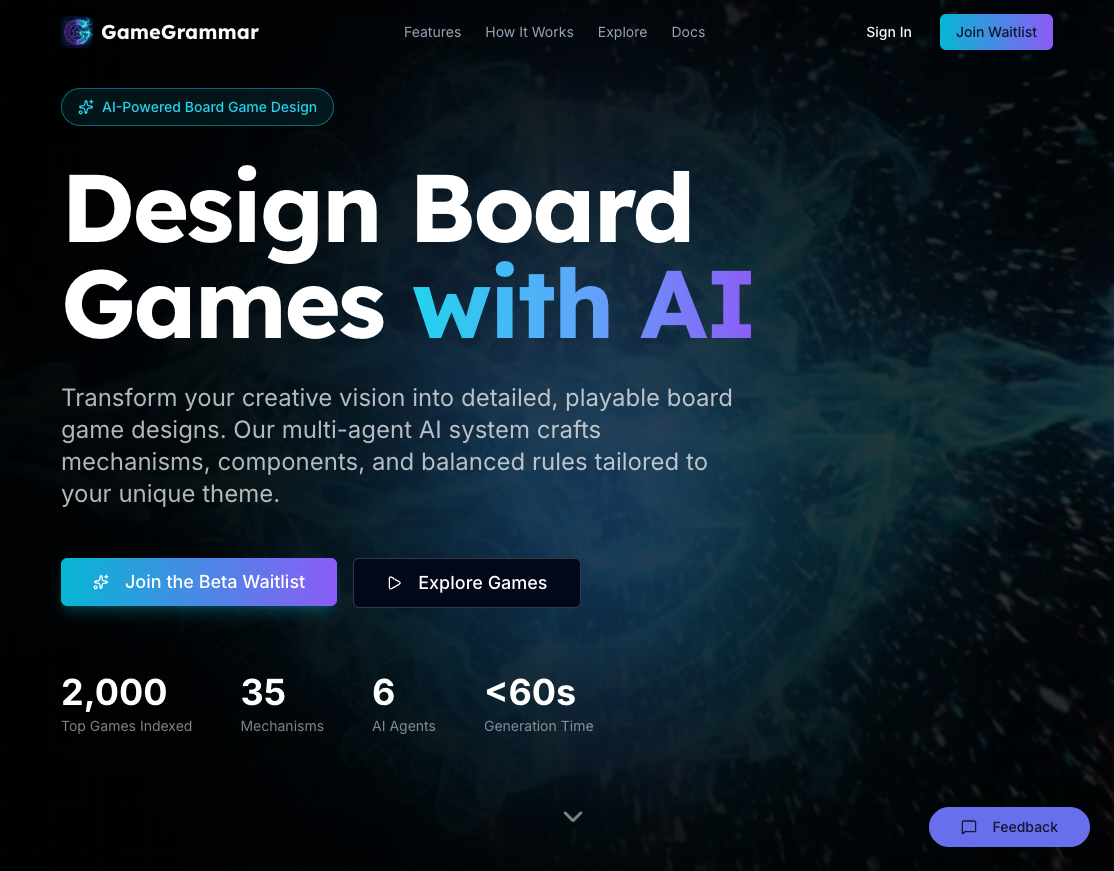
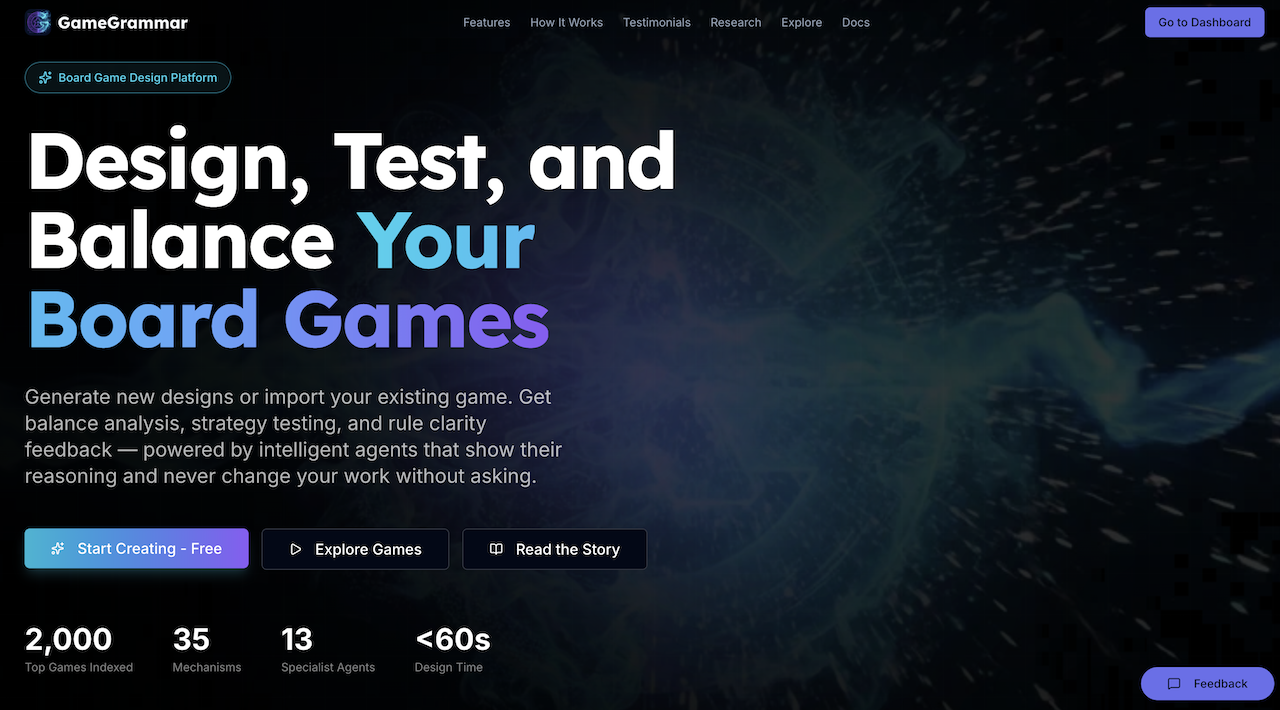
Rebrand blog posts: de-emphasize AI, position as co-design platform
- Part 5 & 6: Replace AI-first language with platform/tool/system framing
- Update tags from AI/Generative AI to Design Tools/Co-Design
- "AI Edit/Suggestions" → "Smart Edit/Smart Suggestions" in tables
- "complete game" → "structured first draft" throughout
- Add import path mention (Epic 44) to both CTAs
- Replace hero image with updated landing page screenshot
- Update Dynamind Research description

diff --git a/_posts/2026-02-06-gamegrammar-the-theory-of-generative-board-game-design.md b/_posts/2026-02-06-gamegrammar-the-theory-of-generative-board-game-design.md
@@ -7,13 +7,13 @@ author: Benny Cheung
 artwork:
   author: Gemini 3 Pro
 tags:
-- AI
 - Game Design
 - Tabletop Games
-- Generative AI
+- Design Tools
 - Ontology
 - Process Philosophy
-- Human-AI Collaboration
+- Co-Design
+- Design Theory
 category: post
 comments: true
 image: images/gamegrammar-the-theory-of-generative-board-game-design/post_cover.jpg
@@ -27,16 +27,16 @@ series_order: 6
 ---
 
 <!--excerpt.start-->
-A poet needs grammar. A game designer needs structure. This article lays out the design theory behind GameGrammar, a theory born from one practical question: Can AI help create playable board games? The answer turned out to require more than clever prompting. It required a shared vocabulary for what games are, a way to generate what games could be, and a collaborative process for refining what games should become. What follows is that theory, and a direct answer to two questions every designer asks: Can AI really understand "fun"? And can AI be genuinely creative?
+A poet needs grammar. A game designer needs structure. This article lays out the design theory behind GameGrammar, a theory born from one practical question: Can structured tools help create playable board games? The answer turned out to require more than clever prompting. It required a shared vocabulary for what games are, a way to generate what games could be, and a collaborative process for refining what games should become. What follows is that theory, and a direct answer to two questions every designer asks: Can AI really understand "fun"? And can AI be genuinely creative?
 <!--excerpt.end-->
 
 ![GameGrammar: Structured Generative Play]({{ site.baseurl }}images/gamegrammar-the-theory-of-generative-board-game-design/GameGrammar_Theme.jpg)
 
 _Figure. Structure meets imagination. The left half shows the blueprint, the right half shows the finished piece. GameGrammar bridges both worlds._
 
-GameGrammar did not begin as a theory. It began as a practical experiment at [Dynamind Research](https://www.dynamindresearch.com) [7]: type a theme into a box, let six AI agents build a complete board game, and see what comes out. What came out, after months of iteration, was not just a tool but a set of ideas about how design works, why AI can be a trustworthy creative partner, and what that means for human designers.
+GameGrammar did not begin as a theory. It began as a practical experiment at [Dynamind Research](https://www.dynamindresearch.com) [7]: type a theme into a box, let six specialized agents generate a structured first draft, and see what comes out. What came out, after months of iteration, was not just a tool but a set of ideas about how design works, why AI can be a trustworthy creative partner, and what that means for human designers.
 
-In a [previous article]({{ site.baseurl }}introducing-gamegrammar-ai-powered-board-game-design), we showed what GameGrammar produces: twelve words in, a complete game out in 73 seconds. This article goes deeper. It explains the *why* behind the *what*, the design thinking that makes human-AI game design not just possible, but genuinely new.
+In a [previous article]({{ site.baseurl }}introducing-gamegrammar-ai-powered-board-game-design), we showed what GameGrammar produces: twelve words in, a structured first draft out in 73 seconds. This article goes deeper. It explains the *why* behind the *what*, the design thinking that makes human-AI game design not just possible, but genuinely new.
 
 ---
 
@@ -59,9 +59,9 @@ _Figure. GameGrammar sits between Concept and Testing, providing rapid variant g
 **GameGrammar lives at Stages 1 and 2.** It is a design workbench for the earliest and most uncertain phases of game creation:
 
 - **Stage 1**: Generate structured first drafts from a theme and constraints. Beat blank-page paralysis. Explore mechanism combinations drawn from real published games.
-- **Stage 2**: Iterate rapidly with AI-assisted consistency checking, balance analysis, section-by-section rewriting, and plain-language editing. Catch issues that would normally take weeks of playtesting to surface.
+- **Stage 2**: Iterate rapidly with automated consistency checking, balance analysis, section-by-section rewriting, and plain-language editing. Catch issues that would normally take weeks of playtesting to surface.
 
-GameGrammar does not touch Stages 3 through 9. It will not lock your design, pitch to publishers, produce art, or manage manufacturing. It sits precisely where you need the most help and where AI can do the most good: turning a theme into a testable design, and helping you refine that design through structured iteration.
+GameGrammar does not touch Stages 3 through 9. It will not lock your design, pitch to publishers, produce art, or manage manufacturing. It sits precisely where you need the most help and where computational tools can do the most good: turning a theme into a testable design, and helping you refine that design through structured iteration.
 
 The positioning matters. GameGrammar is a **design accelerator** that helps you move faster through the early pipeline. It is not a replacement for your craft. You remain the designer. The AI is your instrument.
 
@@ -122,7 +122,7 @@ GameGrammar combines both. The structured vocabulary provides the constraints; t
 
 ### The Six-Agent Pipeline
 
-Generation is not a single AI prompt. It is a team of six specialized agents, each focused on one area of game design [7]:
+Generation is not a single prompt. It is a pipeline of six specialized agents, each focused on one area of game design [7]:
 
 ![The Generative Pipeline: Multi-Agent Synthesis]({{ site.baseurl }}images/gamegrammar-the-theory-of-generative-board-game-design/Multi_Agent_Pipeline.jpg)
 
@@ -209,8 +209,8 @@ _Figure. From precise fixes to open-ended creative guidance. You choose which mo
 |------|-------------------|-----------|
 | **Rewrite Section** | Rewrites one outdated section using your current full design as context | Review and accept or reject |
 | **Fix Contradiction** | Proposes a targeted fix for a specific inconsistency | Preview the change, confirm or skip |
-| **AI Edit** | Translates your plain-language instruction into concrete design changes | Review what it changed, pick which parts to keep |
-| **AI Suggestions** | Generates 3-7 improvement ideas with priorities and reasoning | Apply now, save for later, or dismiss |
+| **Smart Edit** | Translates your plain-language instruction into concrete design changes | Review what it changed, pick which parts to keep |
+| **Smart Suggestions** | Generates 3-7 improvement ideas with priorities and reasoning | Apply now, save for later, or dismiss |
 | **Re-Evaluate** | Scores 6 design dimensions, maps the emotional arc, measures originality | Study the profile, find weak spots, decide what to improve |
 
 Re-evaluation is especially powerful because it closes the feedback loop. After making changes through any of the other modes, you can re-score your design and see what moved. Dimensions that improved flash green; those that declined flash amber. This turns the cycle from "edit and hope" into "edit, measure, and iterate with direction."
@@ -313,7 +313,7 @@ A related question: Can AI be genuinely creative, or does it just shuffle existi
 
 ![Is AI Creative?]({{ site.baseurl }}images/gamegrammar-the-theory-of-generative-board-game-design/Is_AI_Creative.jpg)
 
-_Figure. Existing elements become novel structures through synthesis. The human provides intention (the why). The AI provides recombination (the how)._
+_Figure. Existing elements become novel structures through synthesis. The human provides intention (the why). The system provides recombination (the how)._
 
 The philosopher Whitehead defined creativity not as making something from nothing, but as *the novel combination of existing elements* [1]. Every creative act borrows from what came before but achieves something new in how it brings those pieces together. A poet inherits language, meter, and tradition; the poem is new. An architect inherits materials, engineering, and precedent; the building is new. Creativity is not the absence of inheritance. It is the *fresh synthesis* of what you have inherited.
 
@@ -369,11 +369,11 @@ The three-layer model keeps your game separate from the process of making it. Th
 
 For the design community, this offers a new way of working: not AI replacing designers, not designers ignoring AI, but a structured partnership where each contributes what they do best. The grammar constrains. The AI creates within those constraints. You decide what the game should be.
 
-The AI handles the mechanics. You bring the meaning. That division of labor is the whole theory in one sentence.
+The platform handles the mechanics. You bring the meaning. That division of labor is the whole theory in one sentence.
 
 The grammar does not write the poem. But without grammar, there is no poem to write.
 
-GameGrammar is available in public beta at [gamegrammar.dynamindresearch.com](https://gamegrammar.dynamindresearch.com). Try it. Generate a game from your favorite theme. Study the radar chart. Make some changes and hit Re-Evaluate. Watch the scores move. Then decide for yourself whether this partnership is worth having.
+GameGrammar is available in public beta at [gamegrammar.dynamindresearch.com](https://gamegrammar.dynamindresearch.com). Already have a game in progress? You do not need to start from generation. Describe your existing design to Nova, and the platform will structure it for balance analysis and strategy testing — starting from the work you have already done. Try it. Generate a game from your favorite theme. Study the radar chart. Make some changes and hit Re-Evaluate. Watch the scores move. Then decide for yourself whether this partnership is worth having.
 
 ---
 
@@ -405,7 +405,7 @@ GameGrammar is available in public beta at [gamegrammar.dynamindresearch.com](ht
 [6] [BoardGameGeek](https://boardgamegeek.com/). The largest board game database and community.
   - Source for the 2,000+ game reference library used in generation and originality scoring
 
-[7] [Dynamind Research](https://www.dynamindresearch.com). AI consulting and product development studio.
+[7] [Dynamind Research](https://www.dynamindresearch.com). Research and product development studio.
   - Creator of GameGrammar
 
 [8] Benny Cheung. [*Generative Ontology: When Structured Knowledge Learns to Create*](https://arxiv.org/abs/2602.05636). arXiv:2602.05636, Feb 2026.

diff --git a/_posts/2026-02-03-introducing-gamegrammar-ai-powered-board-game-design.md b/_posts/2026-02-03-introducing-gamegrammar-ai-powered-board-game-design.md
@@ -7,13 +7,13 @@ author: Benny Cheung
 artwork:
   author: Gemini 3 Pro
 tags:
-- AI
 - Game Design
 - Tabletop Games
-- Generative AI
+- Design Tools
 - Game Architecture
 - Board Games
-- Multi-Agent Systems
+- Co-Design
+- Game Analysis
 category: post
 comments: true
 image: images/introducing-gamegrammar-ai-powered-board-game-design/post_cover.png
@@ -28,12 +28,12 @@ series_order: 5
 ---
 
 <!--excerpt.start-->
-I typed twelve words into a text box and got back a complete board game. Mechanics, components, scoring tables, a hex map, a four-phase turn structure, and a critic that told me the game was broken. The whole thing took 73 seconds. This is what happens when you give a structured game taxonomy to six AI agents and let them argue about your design.
+I typed twelve words into a text box and got back a structured first draft of a board game. Mechanics, components, scoring tables, a hex map, a four-phase turn structure, and a critic that told me the game was broken. The whole thing took 73 seconds. This is what happens when you give a structured game taxonomy to six specialized design agents and let them critique your design.
 <!--excerpt.end-->
 
 ![GameGrammar Landing Page]({{ site.baseurl }}images/introducing-gamegrammar-ai-powered-board-game-design/GameGrammar_Landing_Hero.png)
 
-_Figure. GameGrammar transforms a theme and constraints into a complete board game design through six specialized AI agents._
+_Figure. GameGrammar transforms a theme and constraints into a structured board game design through six specialized design agents._
 
 The twelve words were: *"Rival astronomers racing to name celestial objects before their competitors claim the glory."*
 
@@ -71,7 +71,7 @@ The blank page is the first enemy. Before a designer can even begin the playtest
 
 _Figure. The nine-stage board game production pipeline. GameGrammar accelerates Stages 1 and 2, where designers spend the most time and where promising ideas most often die._
 
-I built GameGrammar at [Dynamind Research](https://www.dynamindresearch.com) [5], an AI consulting and product studio that bridges theoretical AI research with practical enterprise implementation, to attack this specific problem. Not to replace game designers, not to automate the creative process, but to eliminate blank-page paralysis and give designers structured starting points worth iterating on. It operates at Stages 1 and 2, where the designer's challenge is generating enough viable concepts to find the gem worth polishing.
+I built GameGrammar at [Dynamind Research](https://www.dynamindresearch.com) [5], a research and product studio that bridges computational design research with practical implementation, to attack this specific problem. Not to replace game designers, not to automate the creative process, but to eliminate blank-page paralysis and give designers structured starting points worth iterating on. It operates at Stages 1 and 2, where the designer's challenge is generating enough viable concepts to find the gem worth polishing.
 
 ---
 
@@ -85,12 +85,12 @@ _Figure. The input: a theme, constraints, and optionally pre-selected mechanisms
 
 The theme can be anything: *"Medieval merchants trading spices along the Silk Road,"* *"Deep sea explorers discovering lost civilizations,"* or in our case, *"Rival astronomers racing to name celestial objects"* with constraints *"2-4 players, competitive, medium complexity, 45-60 minutes."*
 
-Then you choose a generation mode. I picked Multi-Agent because it reveals what makes GameGrammar fundamentally different from a single-prompt approach: six specialized AI agents working in sequence, each reading the complete output of every agent before it.
+Then you choose a generation mode. I picked Multi-Agent because it reveals what makes GameGrammar fundamentally different from a single-prompt approach: six specialized agents working in sequence, each reading the complete output of every agent before it.
 
 | Mode | Speed | What Happens |
 |------|-------|--------------|
 | **Quick** | ~15 seconds | A single powerful model generates the complete design in one pass |
-| **Multi-Agent** | 45-90 seconds | Six specialized AI agents collaborate sequentially, each building on the last |
+| **Multi-Agent** | 45-90 seconds | Six specialized agents collaborate sequentially, each building on the last |
 | **RAG-Enhanced** | ~30 seconds | Generation grounded in data from 2,000+ published BoardGameGeek games [4] |
 
 ![GameGrammar Generate Page]({{ site.baseurl }}images/introducing-gamegrammar-ai-powered-board-game-design/GameGrammar_Generate_Page.png)
@@ -101,7 +101,7 @@ Seventy-three seconds later:
 
 ![Stellar Rivals Title]({{ site.baseurl }}images/introducing-gamegrammar-ai-powered-board-game-design/Stellar_Rivals_Title.png)
 
-_Figure. Stellar Rivals: A Race to the Stars. A complete game design from twelve words and four constraints._
+_Figure. Stellar Rivals: A Race to the Stars. A structured first draft from twelve words and four constraints._
 
 ![Stellar Rivals Overview]({{ site.baseurl }}images/introducing-gamegrammar-ai-powered-board-game-design/Stellar_Rivals_Overview.png)
 
@@ -270,9 +270,11 @@ This mirrors the real design workflow: prototype, test, iterate. GameGrammar com
 
 I want to be clear about what GameGrammar cannot do, because the boundaries matter more than the capabilities.
 
-It cannot **playtest the game**. No AI can simulate the experience of four people around a table discovering that a mechanic is tedious or that a scoring path is dominant. It cannot **read the room**, the laughter, the frustration, the surprise on a player's face when a combo clicks. It cannot **navigate the publication journey**, the manufacturing economics, the publisher relationships, the convention pitching. And it cannot **make taste judgments**. Is a 45-minute game about Victorian astronomers *interesting*? That is a question for the designer and their audience, not for an algorithm.
+It cannot **playtest the game**. No algorithm can simulate the experience of four people around a table discovering that a mechanic is tedious or that a scoring path is dominant. It cannot **read the room**, the laughter, the frustration, the surprise on a player's face when a combo clicks. It cannot **navigate the publication journey**, the manufacturing economics, the publisher relationships, the convention pitching. And it cannot **make taste judgments**. Is a 45-minute game about Victorian astronomers *interesting*? That is a question for the designer and their audience, not for an algorithm.
 
-GameGrammar is a design accelerator, not a replacement [2]. It frees designers from blank-page paralysis and gives them structured starting points worth iterating on. Everything that happens after, the playtesting, the polishing, the publishing, remains the designer's craft.
+GameGrammar is a design accelerator, not a replacement [2]. It frees designers from blank-page paralysis and gives them structured starting points worth iterating on. Everything that happens after — the playtesting, the polishing, the publishing — remains the designer's craft.
+
+Already have a game? You do not need to generate from scratch. Describe your existing design to Nova, and the platform will structure it into the ontology format so you can run balance analysis and strategy testing on the game *you* designed.
 
 ---
 
@@ -297,11 +299,11 @@ The Explore section offers a Mechanism Browser with all 35 mechanisms, a compati
 
 This is Part 5 of the [Game Architecture series]({{ site.baseurl }}unlocking-secrets-of-tabletop-games-ontology). In Part 4, we built a structured vocabulary for understanding tabletop games [1]. Now, that vocabulary has become a creative engine with a name, an interface, and a generate button.
 
-Twelve words. Seventy-three seconds. A complete game with five scoring paths, a hex grid, equipment upgrades, constellation bonuses, and a critic that tells you where it breaks.
+Twelve words. Seventy-three seconds. Not a finished game — a structured first draft with five scoring paths, a hex grid, equipment upgrades, constellation bonuses, and a critic that tells you where it breaks.
 
-The blank page is no longer your enemy. It is your launchpad.
+The blank page is no longer your enemy. It is your launchpad. And if you have already filled the page yourself, the platform is ready to help you test what you built.
 
-This article showed you the *what*. If you want to understand the *why*, [Part 6: The Theory of Generative Board Game Design]({{ site.baseurl }}gamegrammar-the-theory-of-generative-board-game-design) explores the design theory behind GameGrammar. It covers the three-layer architecture that separates mechanics from theme, the co-design relationship between human designers and AI agents, and the philosophical question of whether AI can understand fun. If you are curious about what makes this approach different at a deeper level, that is where to go next.
+This article showed you the *what*. If you want to understand the *why*, [Part 6: The Theory of Generative Board Game Design]({{ site.baseurl }}gamegrammar-the-theory-of-generative-board-game-design) explores the design theory behind GameGrammar. It covers the three-layer architecture that separates mechanics from theme, the co-design relationship between human designers and computational agents, and the philosophical question of whether algorithms can understand fun. If you are curious about what makes this approach different at a deeper level, that is where to go next.
 
 ---
 
@@ -327,8 +329,8 @@ This article showed you the *what*. If you want to understand the *why*, [Part 6
 [4] [BoardGameGeek](https://boardgamegeek.com/). The largest board game database and community.
   - Source for the 2,000+ game index used in RAG-enhanced generation
 
-[5] [Dynamind Research](https://www.dynamindresearch.com). AI consulting and product development studio.
-  - Creator of GameGrammar, bridging theoretical AI research with practical product implementation
+[5] [Dynamind Research](https://www.dynamindresearch.com). Research and product development studio.
+  - Creator of GameGrammar, bridging computational design research with practical product implementation
 
 [6] Benny Cheung. [*Generative Ontology: When Structured Knowledge Learns to Create*](https://arxiv.org/abs/2602.05636). arXiv:2602.05636, Feb 2026.
   - The formal research paper behind GameGrammar's design theory and generative architecture
